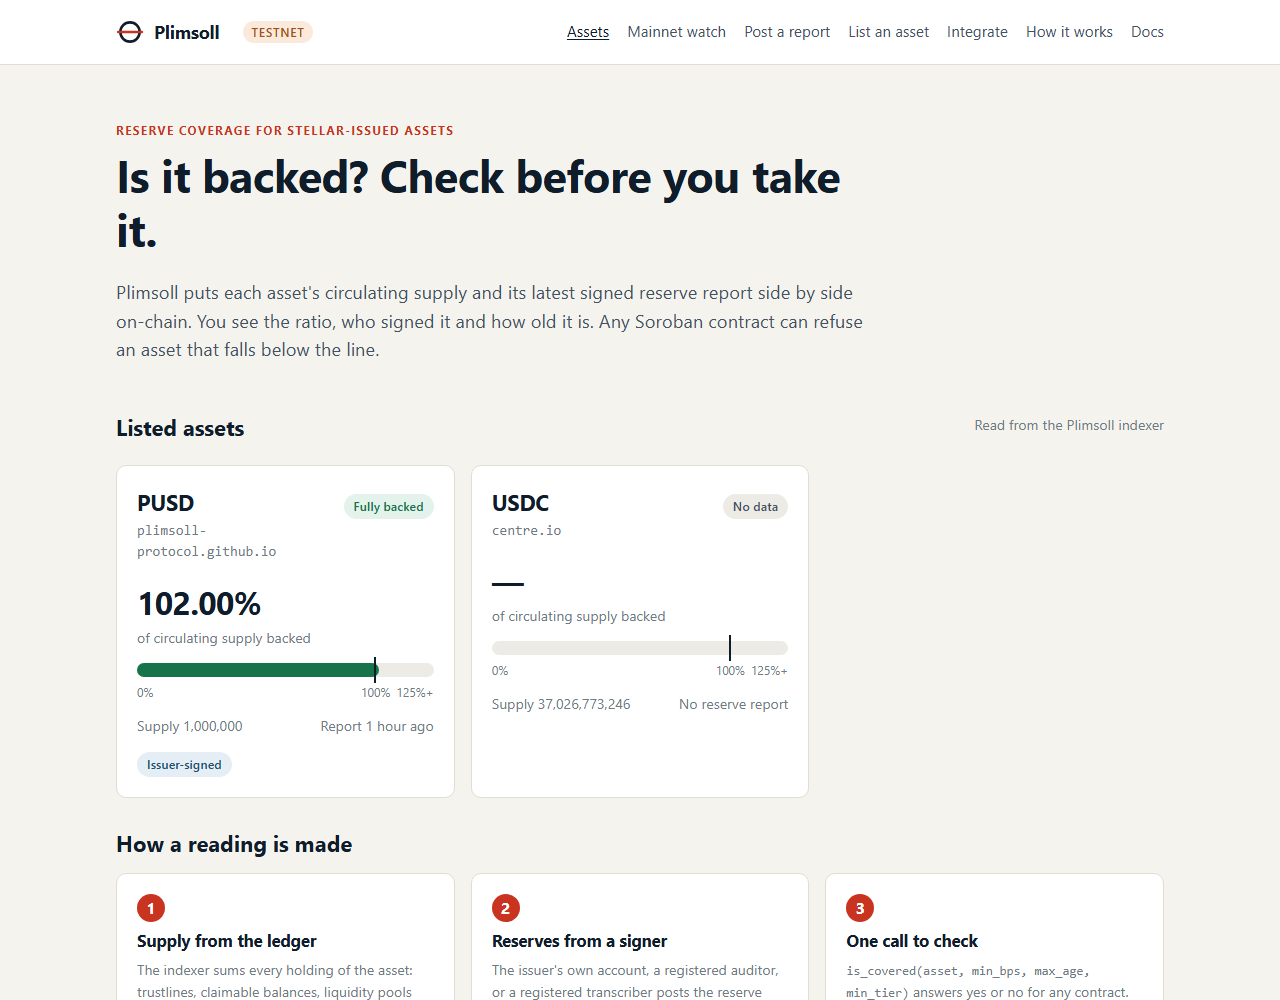
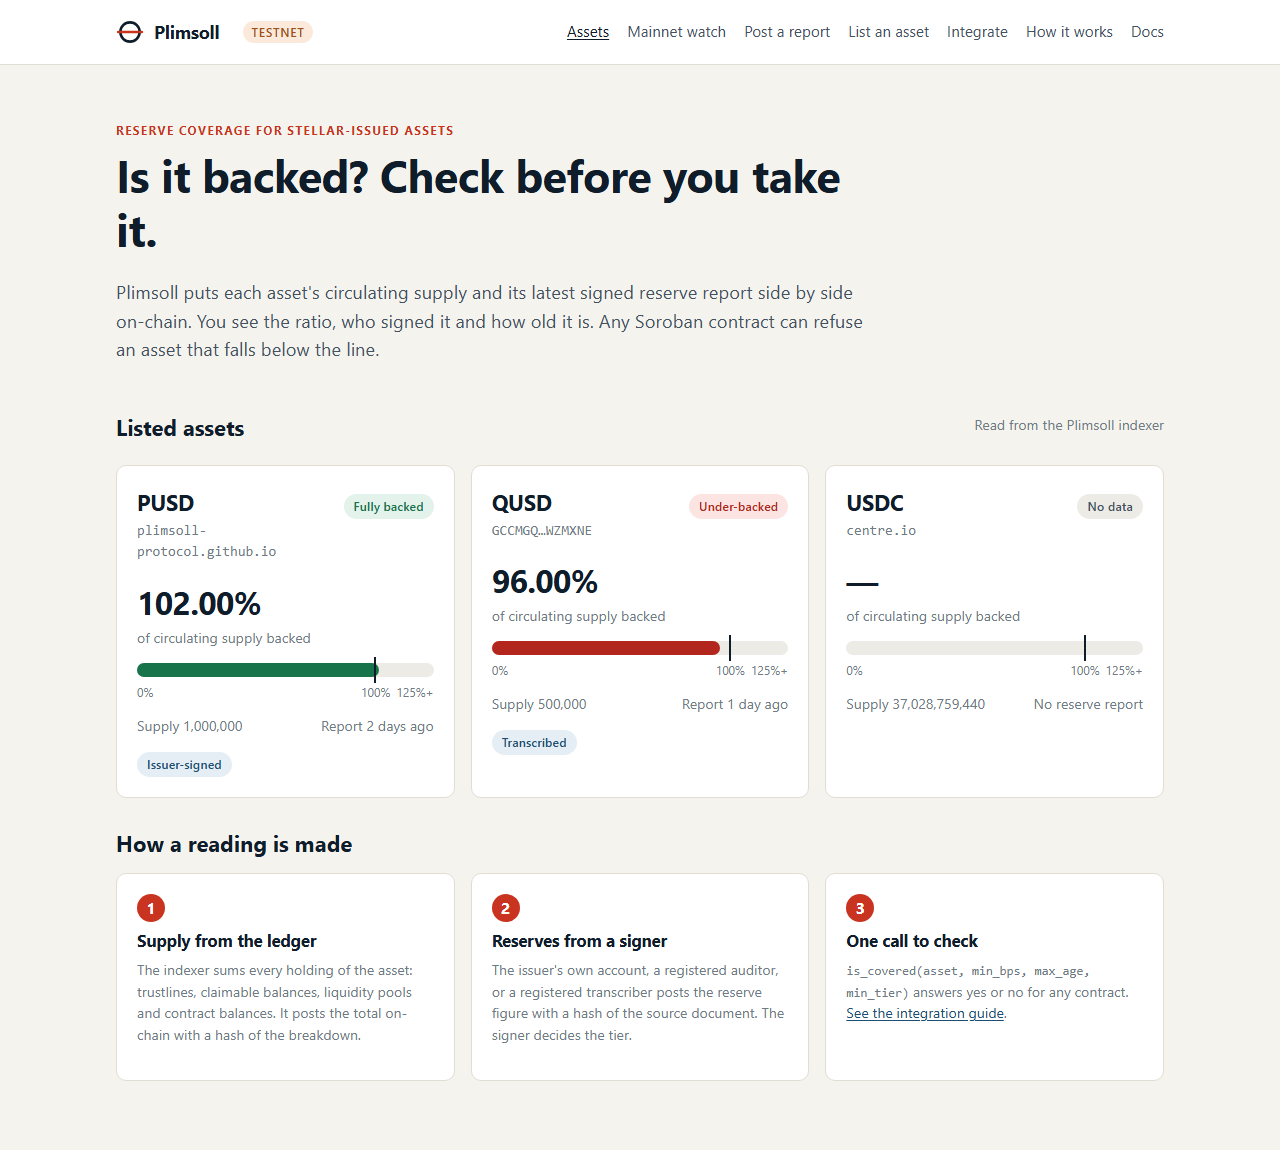
docs: show an under-backed asset being refused in the walkthrough

diff --git a/docs/walkthrough.md b/docs/walkthrough.md
@@ -9,9 +9,11 @@ on the live app; the screenshots were taken from it on 7 October 2026.
 
 Open the [dashboard](https://plimsoll-app-gths-amber.vercel.app/). Each listed
 asset shows its coverage ratio, who signed the reserve figure, and how old it is.
-The demo asset PUSD reads **102.00%**, issuer-signed. Testnet USDC is listed
-and its supply is tracked, but no one has posted reserves for it, so it reads
-"No data". Plimsoll never guesses.
+Three listed assets show the three outcomes. PUSD reads **102.00%**,
+issuer-signed. QUSD reads **96.00%**: it is under-backed, and its figure was
+copied from a published statement by a registered transcriber, the lowest tier.
+Testnet USDC is listed and its supply is tracked, but no one has posted
+reserves for it, so it reads "No data". Plimsoll never guesses.
 
 ![Dashboard](walkthrough/1-dashboard.png)
 
@@ -33,7 +35,26 @@ Everything on this page can be verified without trusting Plimsoll:
 
 ![PUSD asset page](walkthrough/2-asset-pusd.png)
 
-## 3. See the problem on mainnet, today
+## 3. Watch a contract refuse an under-backed asset
+
+Open [QUSD](https://plimsoll-app-gths-amber.vercel.app/asset/?sac=CBSQEFG73RMUVEZ56EFEBCJ23WZNF6FFYXEAJKYG6SZCLKDZ5B2YXGHS).
+Its 500,000 units are backed by 480,000 in reserves, so coverage is 96% and
+`is_covered(QUSD, 100%, 31 days, any tier)` returns **false**. A second example
+vault accepts only fully backed assets, so it refuses a real deposit:
+
+```bash
+stellar contract invoke --network testnet --source <any-QUSD-holder>   --id CBURLBHWLWOTKJ5NVF574NAYFM7Y25JB366ZDO7WGJXCVC4C72UVKTO5 --   deposit --from <holder> --amount 1000000000
+# error: HostError: Error(Contract, #2)   <- NotCovered: the vault refused QUSD
+```
+
+Nothing is transferred; the holder keeps their QUSD. The same call against the
+PUSD vault succeeds ([transaction](https://stellar.expert/explorer/testnet/tx/f86eecaa2eb6252bd4e79708966fc510573b8a9878771641b8f8b514d2804b5b)).
+The whole demo is reproducible with
+[`scripts/seed-underbacked-demo.sh`](https://github.com/plimsoll-protocol/plimsoll-contracts/blob/main/scripts/seed-underbacked-demo.sh).
+
+![QUSD asset page](walkthrough/2b-asset-qusd.png)
+
+## 4. See the problem on mainnet, today
 
 Open [Mainnet watch](https://plimsoll-app-gths-amber.vercel.app/mainnet/). It
 reads five real assets (USDC, EURC, PYUSD, USDGLO, BENJI) live from mainnet
@@ -45,7 +66,7 @@ Plimsoll fills.
 
 ![Mainnet watch](walkthrough/3-mainnet-watch.png)
 
-## 4. See how a protocol uses it
+## 5. See how a protocol uses it
 
 Open [Integrate](https://plimsoll-app-gths-amber.vercel.app/integrate/). One
 cross-contract call, `is_covered(asset, min_bps, max_age, min_tier)`, lets a
@@ -57,7 +78,7 @@ never blocked
 
 ![Integrate page](walkthrough/4-integrate.png)
 
-## 5. Verify from the command line
+## 6. Verify from the command line
 
 Same answer, straight from the contract:
 
@@ -81,4 +102,5 @@ And the indexer's live API:
 | Supply posted by the indexer | [c3ae90c4…](https://stellar.expert/explorer/testnet/tx/c3ae90c40b1dbf0575e0e9babaefd9ae20dee457fb5b37d2d40105f005f6b81b) |
 | Issuer-signed reserve report (7 Oct) | [e0b4df27…](https://stellar.expert/explorer/testnet/tx/e0b4df27bae257a8360a4a62d2efd4a770243faab7673c4d6737305fe548312c) |
 | Issuer sets its SEP-1 home domain | [99b28667…](https://stellar.expert/explorer/testnet/tx/99b286676f578c6e2e87bb61c428808ea791b55e121efafaad1934717801cba4) |
+| QUSD reserves posted by a transcriber (96%) | [1578741c…](https://stellar.expert/explorer/testnet/tx/1578741c9e185f8ecd276c9ee35f56de6f992ac26a3ebe997066092a1a01c9af) |
 | Vault deposit gated by `is_covered` | [f86eecaa…](https://stellar.expert/explorer/testnet/tx/f86eecaa2eb6252bd4e79708966fc510573b8a9878771641b8f8b514d2804b5b) |

diff --git a/docs/contracts/overview.md b/docs/contracts/overview.md
@@ -15,13 +15,15 @@ consumer.
 | --- | --- |
 | reporter-registry | [`CCZCBR7MGSW5LGIEUQR5TU5Z7JQWBDEESB3RGPTRPMCBUMOISRPY7GOB`](https://stellar.expert/explorer/testnet/contract/CCZCBR7MGSW5LGIEUQR5TU5Z7JQWBDEESB3RGPTRPMCBUMOISRPY7GOB) |
 | coverage-ledger | [`CC2QQ7R4FLPHZP7KA5AO4IASXXICTG6N4GQXCXITTEBNYQEYTYXKMN4D`](https://stellar.expert/explorer/testnet/contract/CC2QQ7R4FLPHZP7KA5AO4IASXXICTG6N4GQXCXITTEBNYQEYTYXKMN4D) |
-| covered-vault | [`CC3SUECAJSAC4PBV4QLUII7X5Y4WNVL5YGTBAQ4CHCAH6R3QLRYJUZHQ`](https://stellar.expert/explorer/testnet/contract/CC3SUECAJSAC4PBV4QLUII7X5Y4WNVL5YGTBAQ4CHCAH6R3QLRYJUZHQ) |
+| covered-vault (PUSD, 100%, 7 days, issuer-signed or better) | [`CC3SUECAJSAC4PBV4QLUII7X5Y4WNVL5YGTBAQ4CHCAH6R3QLRYJUZHQ`](https://stellar.expert/explorer/testnet/contract/CC3SUECAJSAC4PBV4QLUII7X5Y4WNVL5YGTBAQ4CHCAH6R3QLRYJUZHQ) |
+| covered-vault (QUSD, 100%, 31 days, any tier) | [`CBURLBHWLWOTKJ5NVF574NAYFM7Y25JB366ZDO7WGJXCVC4C72UVKTO5`](https://stellar.expert/explorer/testnet/contract/CBURLBHWLWOTKJ5NVF574NAYFM7Y25JB366ZDO7WGJXCVC4C72UVKTO5) |
 
 Listed assets:
 
 | Asset | Issuer | SAC |
 | --- | --- | --- |
 | PUSD (demo) | `GBIE3ANCRVCBWETUZXWYKRMP27LQVJHX757XXAQUT3LYHVTNFPPPXEY4` | `CCHPT4TEJDPZQDSUVW3NP6A35ROGV4WEFZKT45SKWYCFZSUB7R5HIM7S` |
+| QUSD (demo, under-backed at 96%) | `GCCMGQ3UGITN2HUUSQKTDMBFZ34QQTKMODR56NT26JMPH2MHVYWZMXNE` | `CBSQEFG73RMUVEZ56EFEBCJ23WZNF6FFYXEAJKYG6SZCLKDZ5B2YXGHS` |
 | USDC (Circle testnet) | `GBBD47IF6LWK7P7MDEVSCWR7DPUWV3NY3DTQEVFL4NAT4AQH3ZLLFLA5` | `CBIELTK6YBZJU5UP2WWQEUCYKLPU6AUNZ2BQ4WWFEIE3USCIHMXQDAMA` |
 
 ## Shared types
